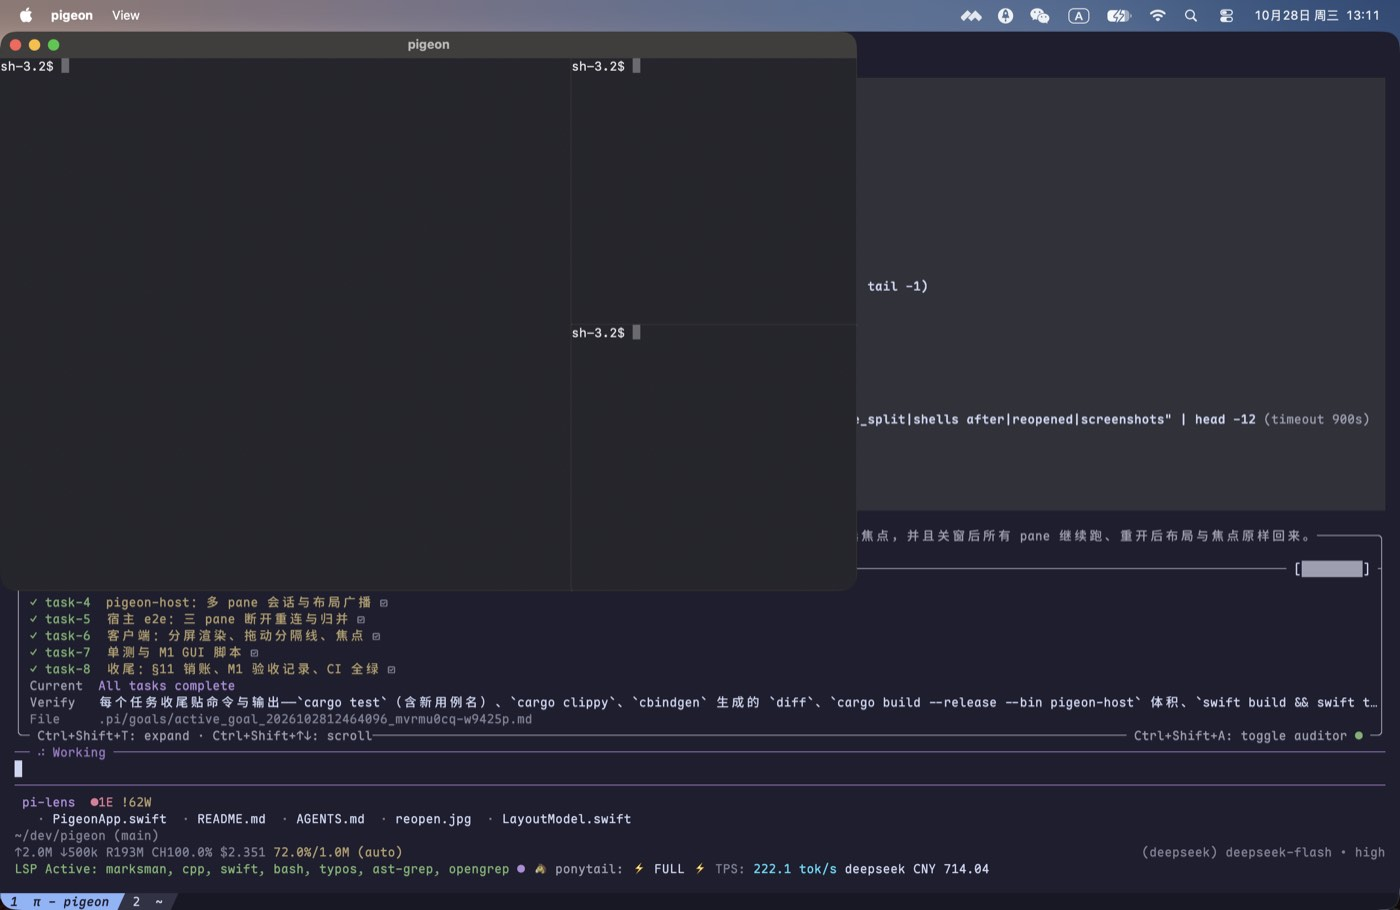
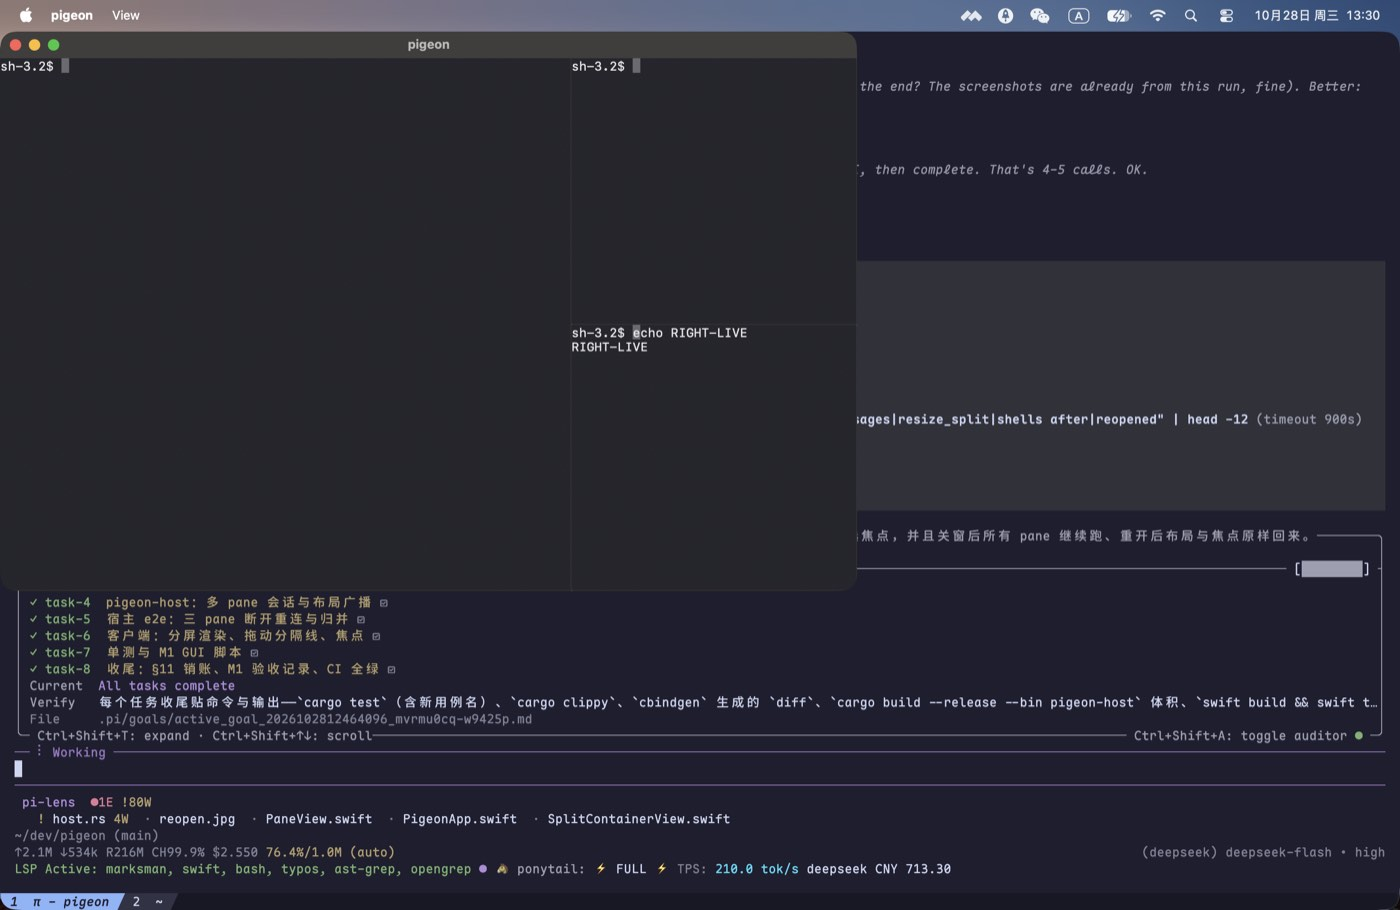
host/app: 每连接多 pane 实时输出、关 pane 后仍广播布局、点击交键盘

diff --git a/Sources/PigeonApp/Layout/SplitContainerView.swift b/Sources/PigeonApp/Layout/SplitContainerView.swift
@@ -46,6 +46,7 @@ final class SplitContainerView: NSView {
 
     private func makePane(_ id: UInt32) -> PaneView {
         let view = PaneView(frame: .zero)
+        view.paneID = id
         view.onInput = { [weak self] bytes in self?.onPaneInput?(id, bytes) }
         view.onResize = { [weak self] cols, rows in self?.onPaneResize?(id, cols, rows) }
         addSubview(view)
@@ -53,6 +54,12 @@ final class SplitContainerView: NSView {
     }
 
     func paneView(_ id: UInt32) -> PaneView? { panes[id] }
+
+    /// Makes `id` the keyboard target; the host is told separately via `onFocus`.
+    func focusPane(_ id: UInt32) {
+        guard let view = panes[id] else { return }
+        window?.makeFirstResponder(view)
+    }
 
     /// Applies a snapshot message to the right pane.
     func applySnapshot(_ snapshot: UnsafePointer<PgSnapshot>) -> Bool {
@@ -109,6 +116,7 @@ final class SplitContainerView: NSView {
             return
         }
         if let pane = model.pane(at: point) {
+            focusPane(pane.id)
             onFocus?(pane.id)
         }
     }
@@ -131,10 +139,16 @@ final class SplitContainerView: NSView {
     @objc func splitHorizontal(_ sender: Any?) { onSplit?(PG_AXIS_HORIZONTAL) }
     @objc func closeFocused(_ sender: Any?) { onClose?() }
     @objc func focusPrevious(_ sender: Any?) {
-        if let next = model.nextFocus(forward: false) { onFocus?(next) }
+        if let next = model.nextFocus(forward: false) {
+            focusPane(next)
+            onFocus?(next)
+        }
     }
     @objc func focusNext(_ sender: Any?) {
-        if let next = model.nextFocus(forward: true) { onFocus?(next) }
+        if let next = model.nextFocus(forward: true) {
+            focusPane(next)
+            onFocus?(next)
+        }
     }
 
     // MARK: - shortcuts
@@ -150,10 +164,16 @@ final class SplitContainerView: NSView {
             onClose?()
             return true
         case "[":
-            if let next = model.nextFocus(forward: false) { onFocus?(next) }
+            if let next = model.nextFocus(forward: false) {
+                focusPane(next)
+                onFocus?(next)
+            }
             return true
         case "]":
-            if let next = model.nextFocus(forward: true) { onFocus?(next) }
+            if let next = model.nextFocus(forward: true) {
+                focusPane(next)
+                onFocus?(next)
+            }
             return true
         default:
             return false

diff --git a/Sources/PigeonApp/Terminal/PaneView.swift b/Sources/PigeonApp/Terminal/PaneView.swift
@@ -17,6 +17,8 @@ final class PaneView: NSView {
         var visible: Bool
     }
 
+    /// Set by the container once the pane view is created.
+    var paneID: UInt32?
     private(set) var cols = 80
     private(set) var rows = 24
     private(set) var cells: [Cell] = []
@@ -108,10 +110,16 @@ final class PaneView: NSView {
                 Unicode.Scalar(cell.codepoint).map(Character.init) ?? " "
             }
             FileHandle.standardError.write(
-                Data("pigeon: grid \(cols)x\(rows) cursor=\(cursor.x),\(cursor.y) row0=\(String(first))\n".utf8)
+                Data("pigeon: grid pane=\(paneID ?? 0) \(cols)x\(rows) cursor=\(cursor.x),\(cursor.y) row0=\(String(first))\n".utf8)
             )
         }
         needsDisplay = true
+    }
+
+    /// Clicks belong to the container (divider drags, focus); NSView does not
+    /// bubble unhandled mouse events, so forward them explicitly.
+    override func mouseDown(with event: NSEvent) {
+        nextResponder?.mouseDown(with: event)
     }
 
     override func keyDown(with event: NSEvent) {

diff --git a/Sources/PigeonApp/Layout/LayoutModel.swift b/Sources/PigeonApp/Layout/LayoutModel.swift
@@ -34,7 +34,12 @@ struct LayoutModel: Equatable {
                 Data("pigeon: layout message rects=\(rectCount)\n".utf8)
             )
         }
-        guard rectCount > 0 else { return nil }
+        if rectCount == 0 {
+            // `{leaf: 0}` means "no panes left"; keep the model empty so the
+            // container removes the stale views instead of showing ghosts.
+            self = .empty
+            return
+        }
         var splits = [PgSplit](repeating: Self.blankSplit, count: 64)
         let splitCount = splits.withUnsafeMutableBufferPointer { buffer in
             pg_msg_layout_splits(message, buffer.baseAddress, buffer.count)

diff --git a/Sources/PigeonApp/PigeonApp.swift b/Sources/PigeonApp/PigeonApp.swift
@@ -181,6 +181,7 @@ final class AppDelegate: NSObject, NSApplicationDelegate {
 
     private func focus(_ pane: UInt32) {
         focusedPane = pane
+        container.focusPane(pane)
         send({ message in
             Wire.set(message, u32: "pane_id", pane)
         }, type: PG_MSG_FOCUS)

diff --git a/core/src/bin/pigeon-host.rs b/core/src/bin/pigeon-host.rs
@@ -133,8 +133,12 @@ async fn run() -> Result<(), String> {
 #[derive(Default)]
 struct ClientState {
     greeted: bool,
-    /// `(pane, negotiated delta)` for the pane this client is watching.
-    attached: Option<(u32, bool)>,
+    /// Panes this connection gets live output for → negotiated `delta`.
+    watched: HashMap<u32, bool>,
+    /// The session whose layout this connection follows (one per window in M1).
+    session: Option<u32>,
+    /// Whether the handshake negotiated `delta` for this connection.
+    delta_ok: bool,
 }
 
 async fn handle_client(
@@ -199,28 +203,21 @@ async fn handle_client(
                 let Ok(event) = event else { continue };
                 match event {
                     Event::Layout { session_id, message } => {
-                        let watching = match state.attached {
-                            Some((pane, _)) => {
-                                let map = sessions.lock().await;
-                                map.get(&session_id)
-                                    .is_some_and(|session| session.panes.contains_key(&pane))
-                            }
-                            None => false,
-                        };
-                        if watching {
+                        // Follow the session even after its last watched pane is
+                        // gone, so closing the active pane still redraws the tree.
+                        if state.session == Some(session_id) {
                             send(&mut writer, &message).await?;
                         }
                     }
                     Event::Exited { pane_id, code } => {
-                        if state.attached.map(|(pane, _)| pane) == Some(pane_id) {
+                        if state.watched.contains_key(&pane_id) {
                             send(&mut writer, &Message::PaneExited { pane_id, code }).await?;
                         }
                     }
                     Event::Delta { pane_id, message } => {
-                        if state.attached.map(|(pane, _)| pane) != Some(pane_id) {
+                        let Some(delta_ok) = state.watched.get(&pane_id).copied() else {
                             continue;
-                        }
-                        let delta_ok = state.attached.map(|(_, delta)| delta).unwrap_or(false);
+                        };
                         if delta_ok {
                             send(&mut writer, &message).await?;
                         } else if let Some(snapshot) = snapshot_of(&sessions, pane_id, false).await {
@@ -340,7 +337,7 @@ async fn dispatch(
                 .filter(|feature| features.iter().any(|asked| asked == *feature))
                 .map(|feature| (*feature).to_owned())
                 .collect();
-            state.attached = Some((0, offered.iter().any(|f| f == "delta")));
+            state.delta_ok = offered.iter().any(|f| f == "delta");
             Some(Message::HelloAck {
                 proto: PROTO_VERSION,
                 server: format!("pigeon-host {}", env!("CARGO_PKG_VERSION")),
@@ -413,8 +410,8 @@ async fn dispatch(
                     id: Some(id),
                 });
             };
-            let delta_ok = state.attached.map(|(_, delta)| delta).unwrap_or(false);
-            state.attached = Some((pane_id, delta_ok));
+            state.watched.insert(pane_id, state.delta_ok);
+            state.session = Some(session_id);
             // The tree follows the snapshot, so a reconnecting window redraws
             // the same split geometry.
             {
@@ -563,6 +560,16 @@ async fn dispatch(
             }
             let _ = session.layout.close(pane_id);
             if session.layout.is_empty() {
+                // Convention: `{leaf: 0}` means "no panes left" (ids start at 1).
+                let _ = events.send(Event::Layout {
+                    session_id,
+                    message: Message::Layout {
+                        session_id,
+                        tree: Node::Leaf { leaf: 0 },
+                        zoom: None,
+                        focus: None,
+                    },
+                });
                 map.remove(&session_id);
             } else {
                 apply_layout(session_id, session, events);

diff --git a/core/tests/host.rs b/core/tests/host.rs
@@ -256,6 +256,16 @@ fn comparable(
     (cols, rows, alt, cursor, scroll, screen)
 }
 
+/// Waits until *this pane's* snapshot contains `needle`.
+fn wait_for_pane_text(client: &mut Client, pane: u32, needle: &str) {
+    client.wait_for(|message| match message {
+        Message::Snapshot { pane_id, .. } if *pane_id == pane => {
+            screen_text(message).contains(needle)
+        }
+        _ => false,
+    });
+}
+
 /// Waits until some snapshot's grid contains `needle`.
 fn wait_for_text(client: &mut Client, needle: &str) {
     client.wait_for(|message| match message {
@@ -959,4 +969,79 @@ fn zoom_messages_are_unsupported_at_the_host() {
         unreachable!()
     };
     assert_eq!(ts, 11);
+}
+
+#[test]
+fn two_panes_on_one_connection_both_get_live_output() {
+    let _serial = one_at_a_time();
+    let host = start_host();
+    let mut client = Client::connect(&host.socket);
+    hello(&mut client);
+    let first = attach_first(&mut client);
+    let (second, _) = split(&mut client, first, proto::SplitAxis::Vertical, 0.5, 2);
+
+    // The client watches both panes on the same connection.
+    client.send(&Message::Attach {
+        id: 120,
+        pane_id: second,
+        size_policy: None,
+    });
+    let _ = snapshot(&mut client);
+
+    client.send(&Message::Keys {
+        pane_id: second,
+        bytes: b"echo RIGHT-LIVE\r".to_vec(),
+    });
+    wait_for_pane_text(&mut client, second, "RIGHT-LIVE");
+
+    // Focus moves to the other pane; its output must flow too, without a re-attach.
+    client.send(&Message::Focus { pane_id: first });
+    let _ = wait_for_layout(
+        &mut client,
+        |m| matches!(m, Message::Layout { focus: Some(f), .. } if *f == first),
+    );
+    client.send(&Message::Keys {
+        pane_id: first,
+        bytes: b"echo LEFT-LIVE\r".to_vec(),
+    });
+    wait_for_pane_text(&mut client, first, "LEFT-LIVE");
+
+    // Both panes are still live afterwards.
+    client.send(&Message::Keys {
+        pane_id: second,
+        bytes: b"echo RIGHT-AGAIN\r".to_vec(),
+    });
+    wait_for_pane_text(&mut client, second, "RIGHT-AGAIN");
+}
+
+#[test]
+fn closing_the_watched_pane_still_delivers_the_new_layout() {
+    let _serial = one_at_a_time();
+    let host = start_host();
+    let mut client = Client::connect(&host.socket);
+    hello(&mut client);
+    let first = attach_first(&mut client);
+    let (second, _) = split(&mut client, first, proto::SplitAxis::Vertical, 0.5, 2);
+    // Watch the pane we are about to close: the layout must still arrive.
+    client.send(&Message::Attach {
+        id: 130,
+        pane_id: second,
+        size_policy: None,
+    });
+    let _ = snapshot(&mut client);
+    client.send(&Message::Keys {
+        pane_id: second,
+        bytes: b"echo BYE\r".to_vec(),
+    });
+    wait_for_pane_text(&mut client, second, "BYE");
+
+    client.send(&Message::ClosePane {
+        id: 131,
+        pane_id: second,
+    });
+    let layout = wait_for_layout(&mut client, |m| leaves_of(tree_of(m)) == vec![first]);
+    let Message::Layout { focus, .. } = &layout else {
+        unreachable!()
+    };
+    assert_eq!(*focus, Some(first), "focus falls back to the survivor");
 }

diff --git a/docs/m1-checklist.md b/docs/m1-checklist.md
@@ -9,7 +9,7 @@
 ```sh
 cargo fmt --check                                  # 通过
 cargo clippy --all-targets -- -D warnings          # 通过
-cargo test                                         # 64 单元 + 11 ABI + 14 宿主端到端 = 89 passed
+cargo test                                         # 64 单元 + 11 ABI + 16 宿主端到端 = 91 passed
 cargo build --release --bin pigeon-host            # 1,201,200 B（1.15 MiB ≤ 8 MiB）
 cbindgen --config core/cbindgen.toml --crate pigeon-core \
          --output /tmp/pg.h core                   # 与 include/pigeon_core.h 无差异
@@ -21,10 +21,10 @@ swift test                                         # 22 个用例
 
 | 面 | 用例 |
 |---|---|
-| 布局树 | `layout::tests`（11 个）：左右/上下、三格、四格嵌套不重叠且面积和 = 1、关闭归并、关闭唯一 pane 变空、比例按最小尺寸夹取、`set_ratio` 夹取、焦点循环含回绕、关闭焦点后迁移、缺失 pane 报错、`split_of` 找分隔线、`describe` 与原树几何一致、**嵌套 split 按自己的 box 夹取**（100 列里内层只有 50 列，ratio 上限 0.8 而不是 0.9） |
+| 布局树 | `layout::tests`（13 个）：左右/上下、三格、四格嵌套不重叠且面积和 = 1、关闭归并、关闭唯一 pane 变空、比例按最小尺寸夹取、`set_ratio` 夹取、焦点循环含回绕、关闭焦点后迁移、缺失 pane 报错、`split_of` 找分隔线、`describe` 与原树几何一致、**嵌套 split 按自己的 box 夹取**（100 列里内层只有 50 列，ratio 上限 0.8 而不是 0.9） |
 | C ABI | `layout_splits_closes_and_focuses`（split 返回新 pane、rects 各 0.5、resize 夹到 0.9、focus 只能指向活 pane、close 后兄弟占满、split_of）、`layout_message_exposes_rects_and_splits`（layout 消息经 ABI 给出 rects/splits/focus） |
 | 协议 | `SplitPane`/`ResizeSplit`/`Focus`/`Layout` 往返 + 两层树与 `focus`；反例：`axis="x"`、`ratio="half"`、`zoom_pane`/`unzoom` → `unsupported` |
-| 宿主端到端 | `split_makes_three_live_panes`（三个 pane 各自 echo 自己的 marker）、`three_panes_survive_a_disconnect_and_restore_layout_and_screens`（叶子顺序/split id+axis+ratio/focus/每 pane 逐 cell 快照都一致）、`closing_a_pane_merges_it_into_the_sibling`、`resizing_a_split_changes_the_tree_and_the_panes`、`vim_alternate_screen_survives_a_reconnect`（vim 进备用屏后断开重连，`alt` 与整屏逐 cell 相等）、`zoom_messages_are_unsupported_at_the_host`（真 `zoom_pane`/`unzoom` 帧回 `unsupported`，随后 ping/pong 仍通） |
+| 宿主端到端 | `split_makes_three_live_panes`（三个 pane 各自 echo 自己的 marker）、`three_panes_survive_a_disconnect_and_restore_layout_and_screens`（叶子顺序/split id+axis+ratio/focus/每 pane 逐 cell 快照都一致）、`closing_a_pane_merges_it_into_the_sibling`、`resizing_a_split_changes_the_tree_and_the_panes`、`vim_alternate_screen_survives_a_reconnect`（vim 进备用屏后断开重连，`alt` 与整屏逐 cell 相等）、`zoom_messages_are_unsupported_at_the_host`（真 `zoom_pane`/`unzoom` 帧回 `unsupported`，随后 ping/pong 仍通）、`two_panes_on_one_connection_both_get_live_output`（同一连接订阅两个 pane，两边都能持续收到输出，无需重新 attach）、`closing_the_watched_pane_still_delivers_the_new_layout`（关掉正在看的 pane 仍收到新 `layout`，焦点落到幸存者） |
 | Swift 纯逻辑 | `LayoutModelTests`（4 个）：divider 命中按轴且限定在它的 box 内、pane 命中、焦点循环回绕、`proposedRatio` 是纯坐标映射、空模型无焦点 |
 
 ## 2. GUI（真键盘 / 真鼠标，`tools/m1-gui-check.sh`）
@@ -37,12 +37,14 @@ panes before splitting: 1
 after Cmd-D: 2 shells, 1 split_pane sent
 after Cmd-Shift-D: 4 shells
 focus messages: 1
-after Cmd-W: 3 shells, close_pane sent 1
-focus messages after Cmd-] and Cmd-[: 3
-resize_split messages: 2, resize_pane 17 -> 23
+typed into pane=4, then clicked and typed into pane=1 (must differ)
+after Cmd-W: 3 shells, close_pane sent 1, app tree: layout 3 panes
+focus messages after Cmd-] and Cmd-[: 4
+resize_split messages: 2, resize_pane 19 -> 25
 shells after the window closed: 3
-reopened window: 3 panes restored, 11 grid redraws with content
+reopened window: 3 panes restored, 10 grid redraws with content
 ```
+
 
 
 | 项 | 证据 |
@@ -50,7 +52,8 @@ reopened window: 3 panes restored, 11 grid redraws with content
 | ⌘D 左右分屏 | ![split-2](images/m1/split-2.jpg) |
 | 再来一次 → 三格 | ![split-3](images/m1/split-3.jpg) |
 | ⌘⇧D → 四格 | ![split-4](images/m1/split-4.jpg) |
-| ⌘W 关掉当前 pane | `after Cmd-W: 3 shells, close_pane sent 1`，![closed-pane](images/m1/closed-pane.jpg) |
+| 在两个 pane 里分别输入（先右边、再点左边） | `typed into pane=4, then clicked and typed into pane=1`，![typed-right](images/m1/typed-right.jpg) / ![typed-left](images/m1/typed-left.jpg) |
+| ⌘W 关掉**正在看的**那个 pane | `after Cmd-W: 3 shells, close_pane sent 1, app tree: layout 3 panes`，![closed-pane](images/m1/closed-pane.jpg)（没有鬼影） |
 | ⌘] / ⌘[ 切焦点 | `focus messages` 从 1 增到 3（宿主收到两次 `focus`） |
 | 鼠标拖动第一个分隔线（450 → 560 → 600） | ![dragged](images/m1/dragged.jpg)；`resize_split messages: 2`，`resize_pane 17 -> 23`（两侧都被重新 fit） |
 | 关窗后 3 个 shell 仍在 → 重开 | ![reopen](images/m1/reopen.jpg)，`3 panes restored, 11 grid redraws with content`，三块都能看到 `sh-3.2$` |
@@ -67,7 +70,13 @@ reopened window: 3 panes restored, 11 grid redraws with content
    容器里还没有这个 pane 的 view，`applySnapshot` 返回 false；随后 `attached` 已包含该 pane，layout 到来时
    不再重发。改为「`layout` 先建视图 → 对尚未拿到快照的 pane 逐个 attach」，并把早到的快照按 pane 暂存
    （`pendingSnapshots`）待视图出现后重放；脚本新增 `grid redraws with content` 断言，避免再靠计数自证。
-6. **嵌套 split 的最小尺寸算错**：`set_ratio` 原来拿整会话的 cols/rows 夹取，嵌套时会把内层比例放得过大；
+6. **只有最后一个 attach 的 pane 有实时输出**：宿主每个连接只记一个 `attached` pane，`Delta` 对其它 pane 直接丢弃——
+   点开另一个 pane 只改了焦点，屏幕却是冻结的。改为每个连接维护 `watched: HashMap<pane, delta>`，
+   并记住所属 session（关闭被 watch 的 pane 后仍能收到新 `layout`，不再留下鬼影）。
+7. **点击 pane 没把键盘交给它**：`PaneView` 没实现 `mouseDown`（NSView 不会冒泡未处理的鼠标事件），
+   点击只到了窗口而不是容器，焦点与按键都还留在旧 pane。`PaneView.mouseDown` 现在把事件转给容器，
+   点选/⌘[/⌘] 都会 `makeFirstResponder` 到对应 pane。
+8. **嵌套 split 的最小尺寸算错**：`set_ratio` 原来拿整会话的 cols/rows 夹取，嵌套时会把内层比例放得过大；
    改为先算出该 split 自己的 box 再夹（新增 `nested_split_clamps_against_its_own_box`）。
 
 ## 4. 未验 / 已知缺口
@@ -88,7 +97,7 @@ reopened window: 3 panes restored, 11 grid redraws with content
 | 作业 | 结果 | 关键输出 |
 |---|---|---|
 | `docs` | success | 文档相对链接检查 `links ok` |
-| `rust (ubuntu-latest)` | success | `cargo test` **64 + 11 + 14 = 89 passed**（含多 pane 与 vim 备用屏重连的宿主端到端） |
+| `rust (ubuntu-latest)` | success | `cargo test` **64 + 11 + 16 = 91 passed**（含多 pane 与 vim 备用屏重连的宿主端到端） |
 | `rust (macos-latest)` | success | 同上 |
 | `header` | success | `cbindgen` 生成后 `diff -u` 为空 |
 | `swift` | success | `cargo build` → `swift build` → `swift test` **22 passed** |

diff --git a/docs/protocol.md b/docs/protocol.md
@@ -53,7 +53,7 @@
 | c→s | `close_pane` | `id: u32`, `pane_id: u32` | — | 关闭 pane 及其进程组（SIGHUP → SIGKILL） |
 | c→s | `split_pane` | `id: u32`, `pane_id: u32`, `axis: "v"\|"h"`, `ratio: f32` | — | `v` = 左右并排，`h` = 上下堆叠；`ratio` ∈ (0,1)，被夹到最小尺寸内 |
 | c→s | `resize_pane` | `pane_id: u32`, `cols: u16`, `rows: u16` | — | 是**请求**：是否生效由尺寸策略决定（§6），结果以 `size_state` 广播 |
-| c→s | `focus` | `pane_id: u32` | — | 客户端自己的焦点；宿主只用于 `latest` 尺寸策略 |
+| c→s | `focus` | `pane_id: u32` | — | 客户端把焦点告诉宿主；宿主记在布局树里，并随 `layout.focus` 广播，供重连复原 |
 | c→s | `resize_split` | `id: u32`, `split_id: u32`, `ratio: f32` | — | 拖动分隔线；`split_id` 来自上一帧 `layout`；`ratio` 被夹到最小尺寸内 |
 | c→s | `zoom_pane` | `id: u32`, `pane_id: u32` | — | 放大单个 pane（对应 `layout.zoom`） |
 | c→s | `unzoom` | `id: u32`, `pane_id: u32` | — | 取消放大 |
@@ -78,6 +78,7 @@
   - 颜色：`0x01000000 | idx` 表示调色板索引；否则按 `0xRRGGBB`。
   - `link` 缺省 = 无超链接；非 0 时指向同一帧 `links` 表里的 `id`（`links` 随该帧的 `snapshot`/`delta` 下发）。
 - 同一 `pane_id` 的 `snapshot` 会把该客户端的 `seq` 基准重置。
+- `layout.tree` 用 `{leaf: 0}` 表示「这个 session 已经没有 pane 了」（pane id 从 1 开始）。
 
 ### 3.4 输入与状态
 
